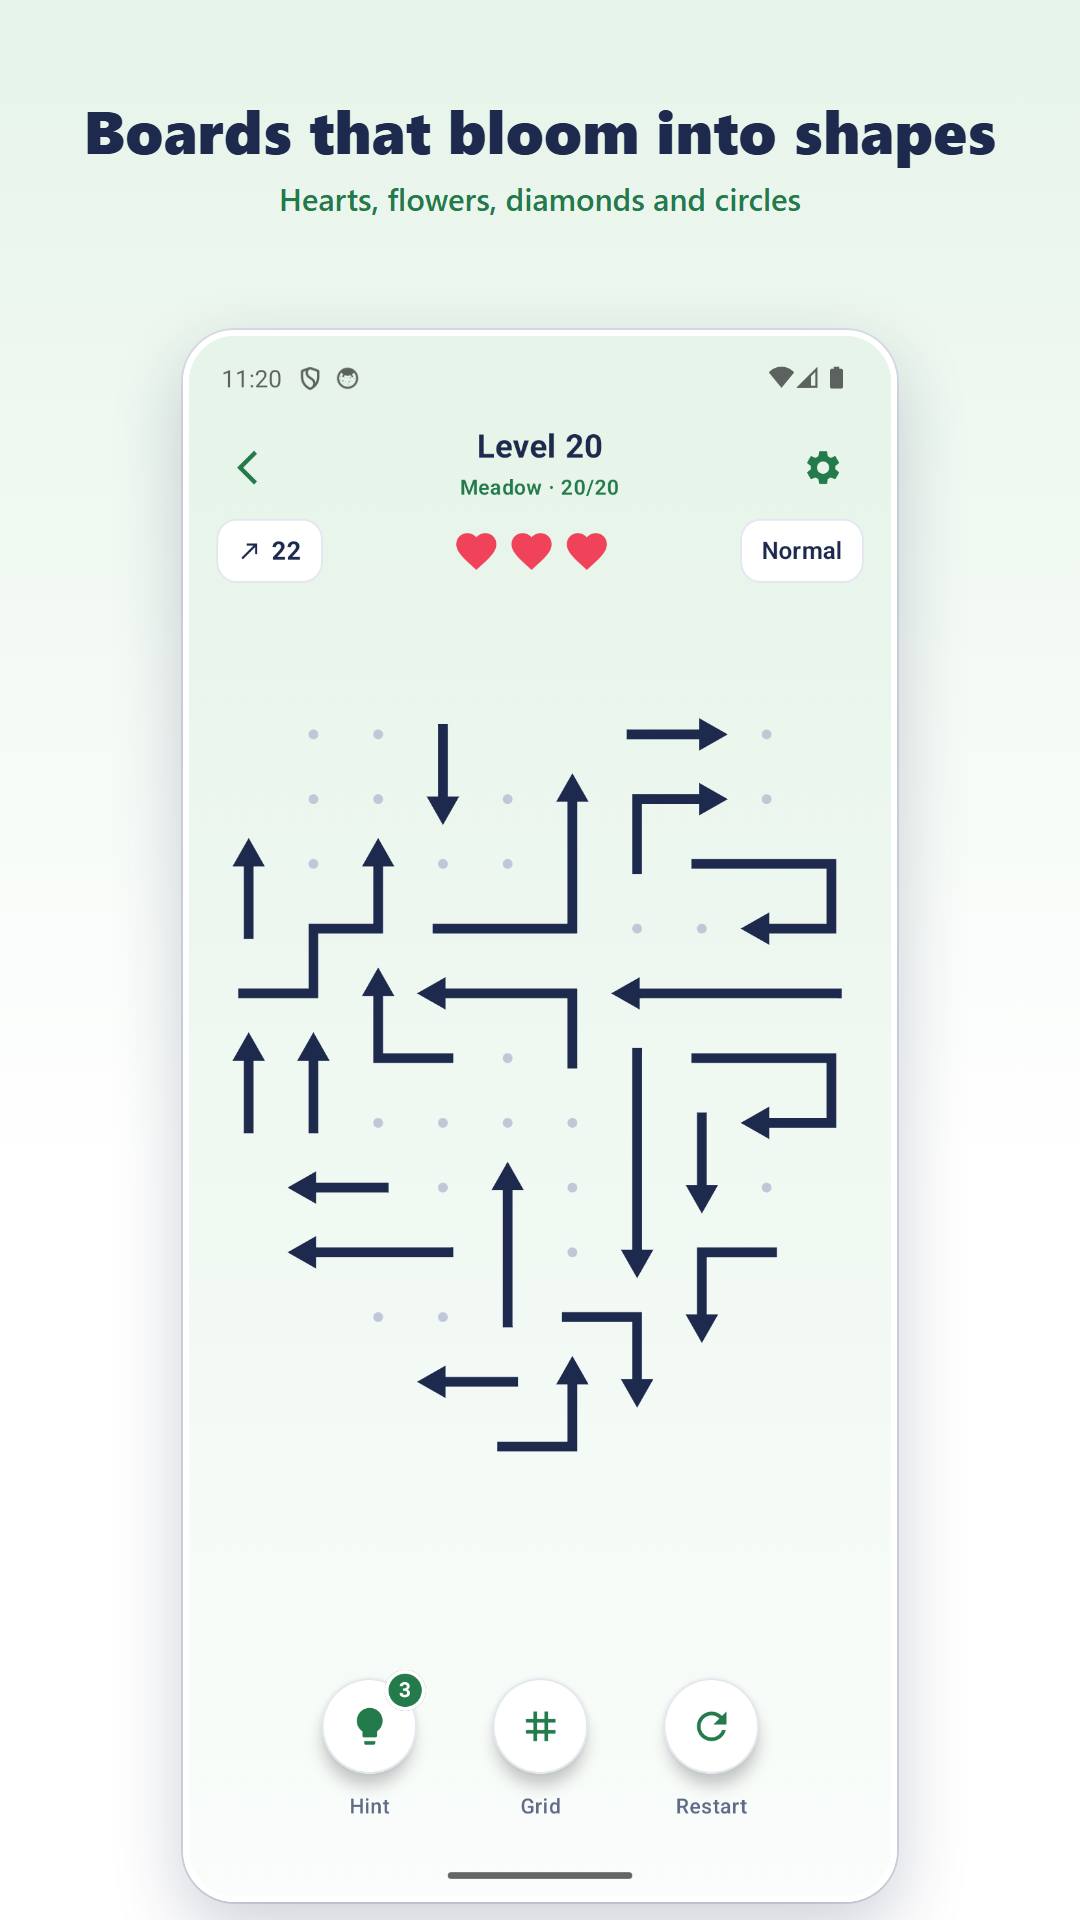
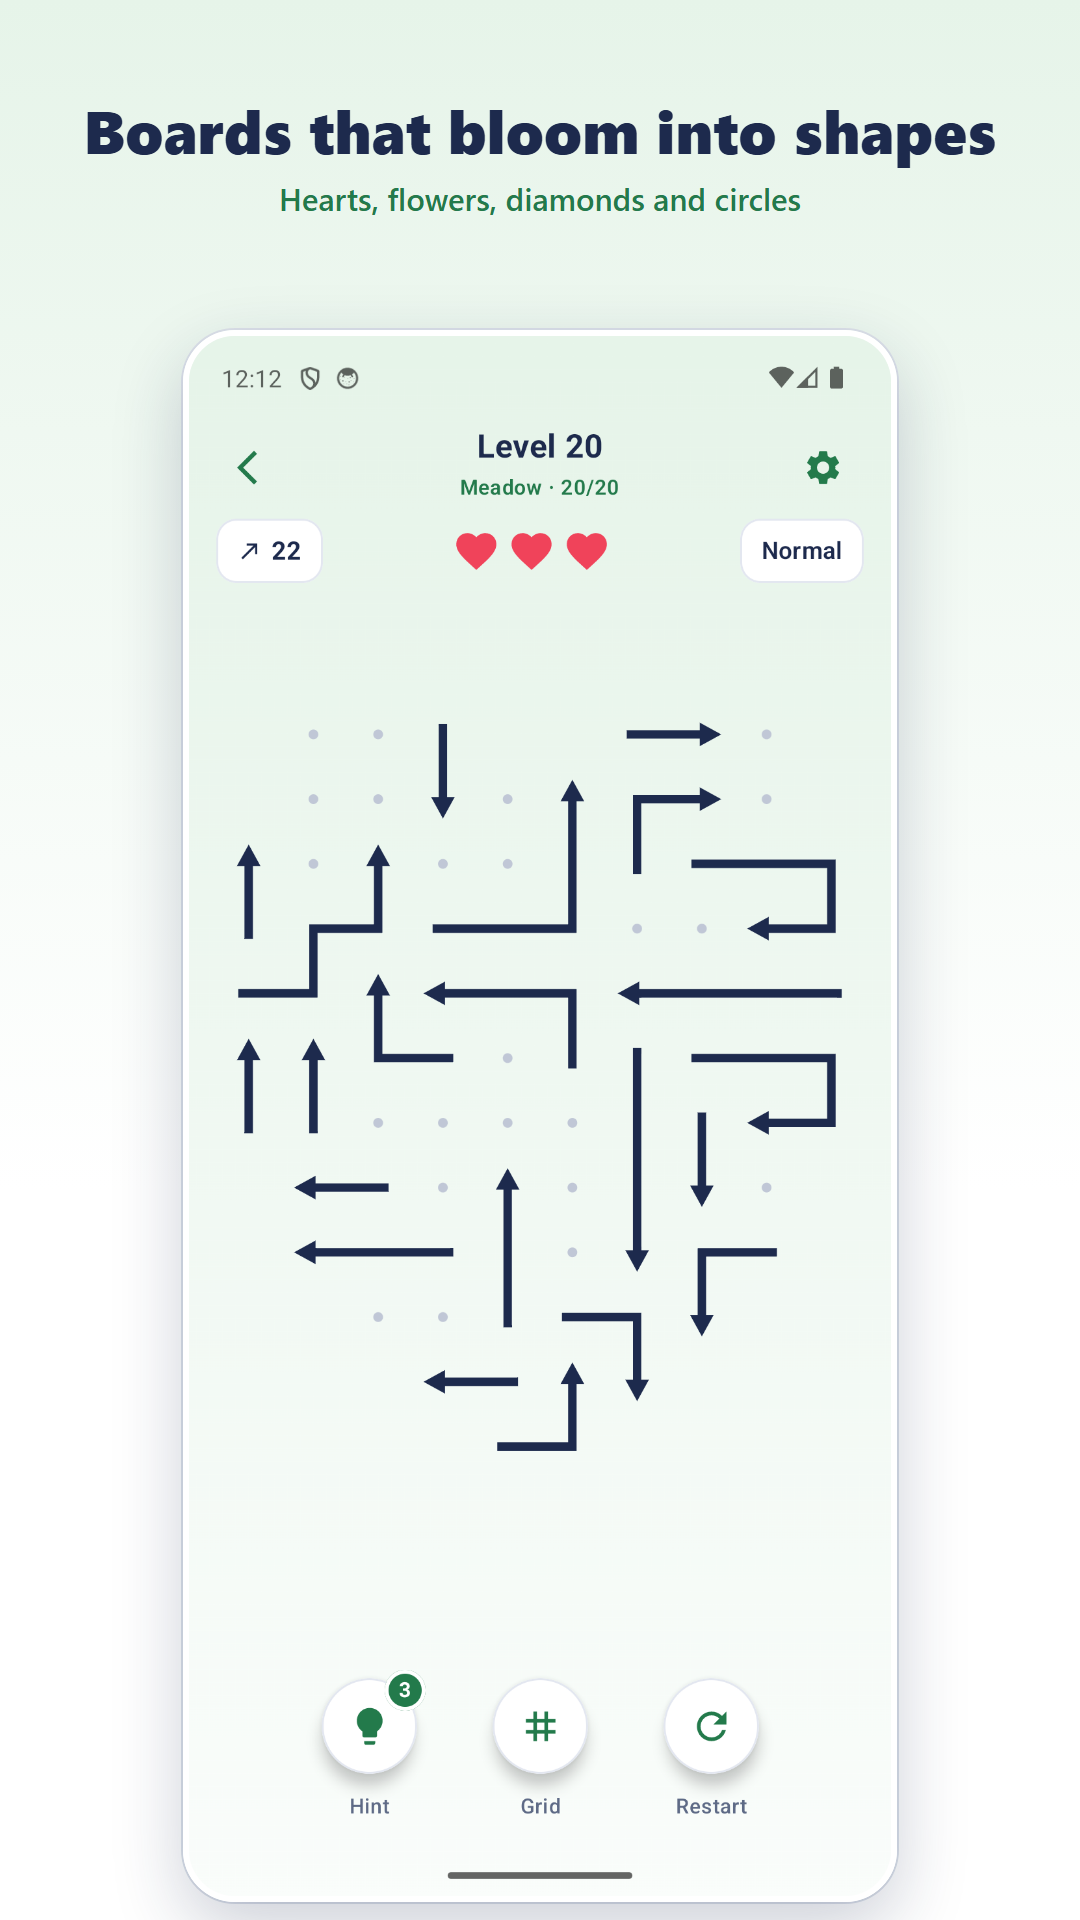
feat: slimmer arrows (versionCode 4)
Line 13% of a cell (was 15%, cap 5dp), arrowhead sized in line widths (2.3 long, 1.4 half-width: about 30% smaller), cells capped at 64dp so the first small boards are not blown up. Store screenshots recaptured. 53 tests, lint 0 errors.

diff --git a/app/src/main/java/com/aweagle/arrowbloom/ui/components/ArrowCanvas.kt b/app/src/main/java/com/aweagle/arrowbloom/ui/components/ArrowCanvas.kt
@@ -63,8 +63,17 @@ import kotlin.math.sqrt
 /** How long the slide-and-bump after a wrong tap takes; the view model waits for it. */
 fun bumpDurationMs(freeSteps: Int): Long = (280L + 70L * freeSteps).coerceAtMost(900L)
 
-private val MAX_STROKE = 6.dp
-private val MAX_DOT = 3.2.dp
+/** Line thickness as a share of a cell, capped so lines stay slim on small boards. */
+private const val STROKE_PER_CELL = 0.13f
+private val MAX_STROKE = 5.dp
+private val MAX_DOT = 3.dp
+
+/** The first, small boards would otherwise get giant cells; past this size the board just sits smaller. */
+private val MAX_CELL = 64.dp
+
+/** Arrowhead size in line widths: length ahead of the head point, and half its width. */
+private const val HEAD_LENGTH = 2.3f
+private const val HEAD_HALF_WIDTH = 1.4f
 
 /** How far a line runs past the centre of its tail cell, in cells. */
 private const val TAIL = 0.16f
@@ -90,8 +99,8 @@ private class Geo(val cell: Float, val ox: Float, val oy: Float) {
     fun grid(p: Offset) = Offset((p.x - ox) / cell, (p.y - oy) / cell)
 }
 
-private fun geoFor(width: Float, height: Float, board: Board): Geo {
-    val cell = min(width / board.cols, height / board.rows)
+private fun geoFor(width: Float, height: Float, board: Board, maxCell: Float): Geo {
+    val cell = min(min(width / board.cols, height / board.rows), maxCell)
     return Geo(cell, (width - board.cols * cell) / 2f, (height - board.rows * cell) / 2f)
 }
 
@@ -244,16 +253,16 @@ fun ArrowCanvas(
             .semantics { this.contentDescription = contentDescription }
             .pointerInput(board) {
                 detectTapGestures { tap ->
-                    val geo = geoFor(size.width.toFloat(), size.height.toFloat(), board)
+                    val geo = geoFor(size.width.toFloat(), size.height.toFloat(), board, MAX_CELL.toPx())
                     nearestArrow(board, geo.grid(tap))?.let(onArrowTapped)
                 }
             },
     ) {
         @Suppress("UNUSED_EXPRESSION") bloomFrame
-        val geo = geoFor(size.width, size.height, board)
+        val geo = geoFor(size.width, size.height, board, MAX_CELL.toPx())
         val cell = geo.cell
         // Lines stay slim on small boards: a share of the cell, capped in dp.
-        val stroke = min(cell * 0.15f, MAX_STROKE.toPx())
+        val stroke = min(cell * STROKE_PER_CELL, MAX_STROKE.toPx())
         val dot = min(cell * 0.075f, MAX_DOT.toPx())
 
         // 1. Optional grid, then a dot on every empty playable cell.
@@ -350,13 +359,12 @@ fun DrawScope.drawLineArrow(points: List<Offset>, dir: Direction, strokeWidth: F
     }
     if (glow != null) drawPath(path, glow, style = Stroke(strokeWidth * 3.4f, cap = StrokeCap.Round, join = StrokeJoin.Round))
     drawPath(path, color, alpha = alpha, style = Stroke(strokeWidth, cap = StrokeCap.Butt, join = StrokeJoin.Miter))
-    val unit = strokeWidth / 0.15f
     val d = Offset(dir.dCol.toFloat(), dir.dRow.toFloat())
     val perp = Offset(-d.y, d.x)
     val head = points.last()
-    val tip = head + d * (0.40f * unit)
-    val base = head - d * (0.04f * unit)
-    val half = 0.25f * unit
+    val tip = head + d * (HEAD_LENGTH * strokeWidth)
+    val base = head - d * (0.25f * strokeWidth)
+    val half = HEAD_HALF_WIDTH * strokeWidth
     val tri = Path().apply {
         moveTo(tip.x, tip.y)
         lineTo(base.x + perp.x * half, base.y + perp.y * half)

diff --git a/app/src/main/java/com/aweagle/arrowbloom/ui/screens/HomeScreen.kt b/app/src/main/java/com/aweagle/arrowbloom/ui/screens/HomeScreen.kt
@@ -262,7 +262,7 @@ private fun HeroBoard(accent: androidx.compose.ui.graphics.Color) {
         for (r in 0 until rows) for (c in 0 until cols) {
             if ((r to c) !in used) drawCircle(DotColor, cell * 0.075f, px(r, c))
         }
-        val stroke = cell * 0.15f
+        val stroke = cell * 0.13f
         for ((cells, dir, free) in arrows) {
             val pts = cells.map { (r, c) -> px(r, c) }
             val tail = pts[0] + (pts[0] - pts[1]) * 0.22f
